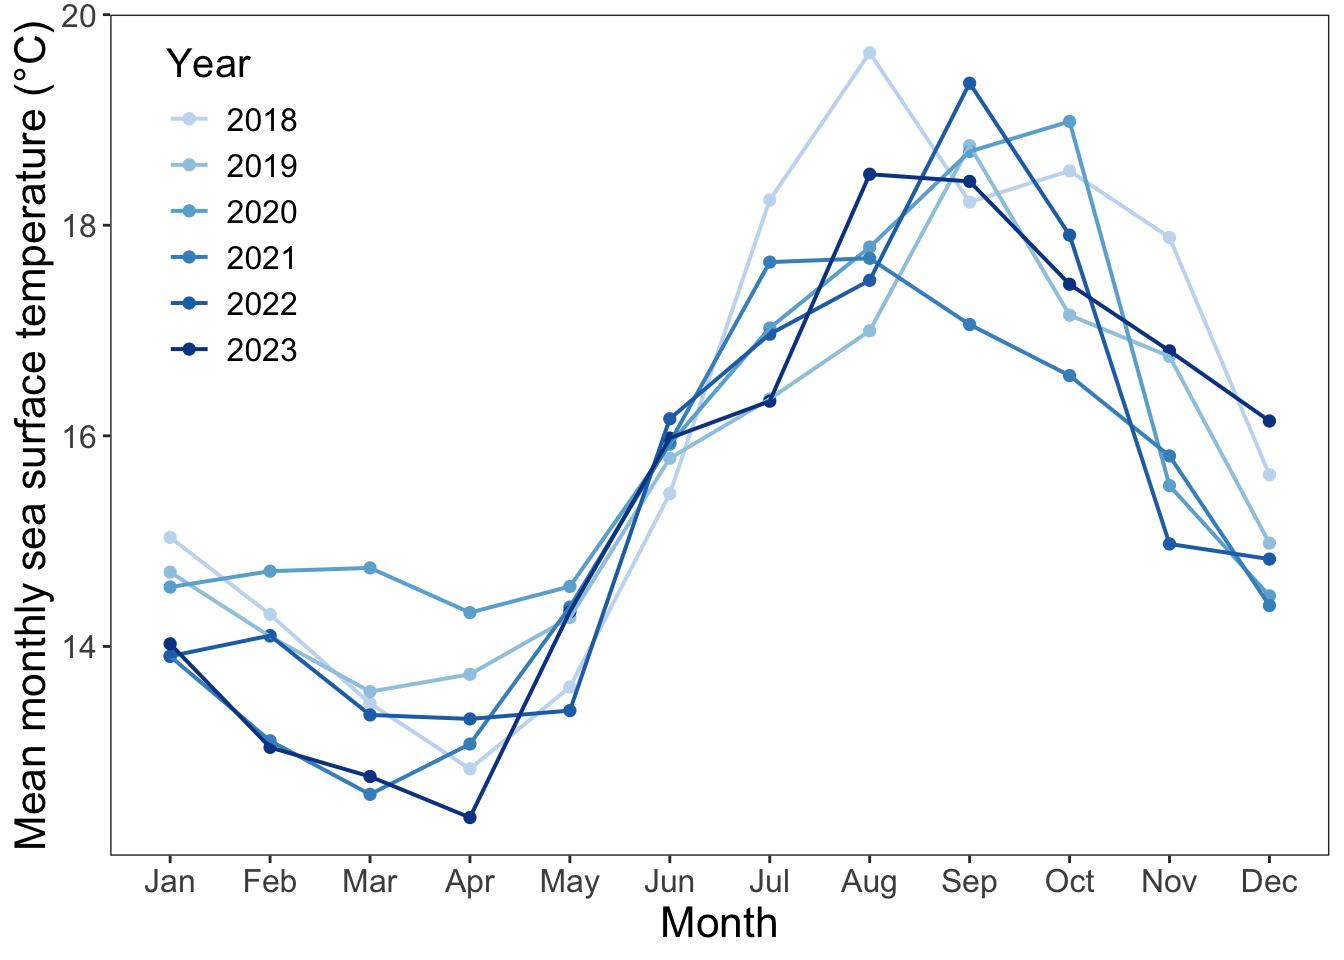
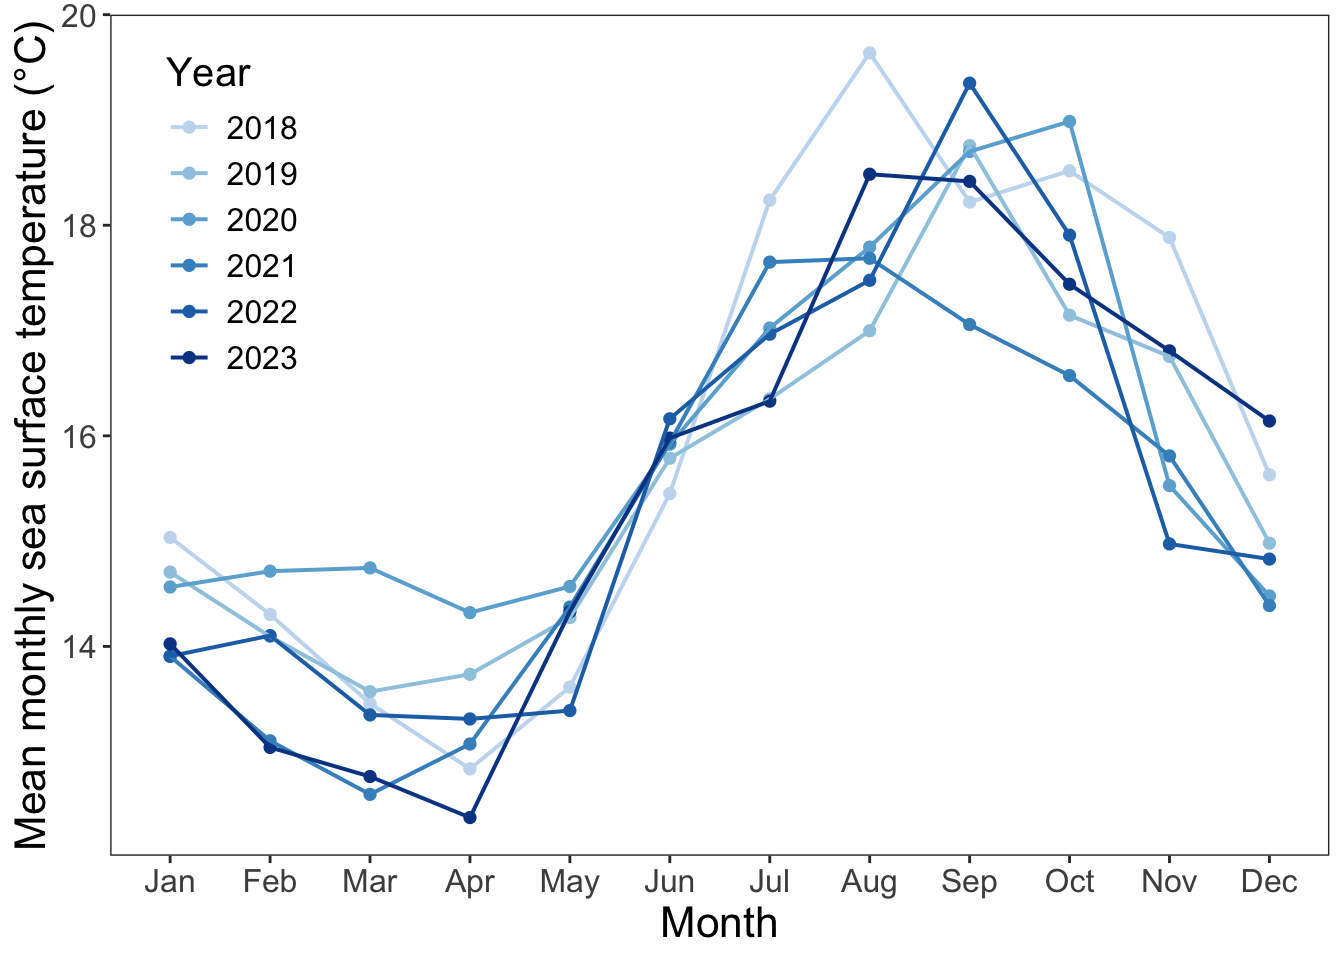
added models

Changed region(s): [[0.125, 0.0312, 0.2188, 0.4062]]

diff --git a/Code/index.html b/Code/index.html
@@ -81,16 +81,25 @@ pre > code.sourceCode > span > a:first-child::before { text-decoration: underlin
     <h2 id="toc-title">Table of contents</h2>
    
   <ul>
-  <li><a href="#problem-1" id="toc-problem-1" class="nav-link active" data-scroll-target="#problem-1">Problem 1</a>
+  <li><a href="#problem-1.-research-writing" id="toc-problem-1.-research-writing" class="nav-link active" data-scroll-target="#problem-1.-research-writing">Problem 1. Research Writing</a>
   <ul class="collapse">
   <li><a href="#a.-transparent-statistical-methods" id="toc-a.-transparent-statistical-methods" class="nav-link" data-scroll-target="#a.-transparent-statistical-methods">a. Transparent Statistical Methods</a></li>
   <li><a href="#b.-more-information-needed" id="toc-b.-more-information-needed" class="nav-link" data-scroll-target="#b.-more-information-needed">b. More Information Needed</a></li>
   <li><a href="#c.-suggestions-for-rewriting" id="toc-c.-suggestions-for-rewriting" class="nav-link" data-scroll-target="#c.-suggestions-for-rewriting">c.&nbsp;Suggestions for Rewriting</a></li>
   </ul></li>
-  <li><a href="#problem-2" id="toc-problem-2" class="nav-link" data-scroll-target="#problem-2">Problem 2</a>
+  <li><a href="#problem-2.-data-visualization" id="toc-problem-2.-data-visualization" class="nav-link" data-scroll-target="#problem-2.-data-visualization">Problem 2. Data Visualization</a>
   <ul class="collapse">
   <li><a href="#a.-cleaning-and-summarizing" id="toc-a.-cleaning-and-summarizing" class="nav-link" data-scroll-target="#a.-cleaning-and-summarizing">a. Cleaning and Summarizing</a></li>
   <li><a href="#b.-visualize-the-data" id="toc-b.-visualize-the-data" class="nav-link" data-scroll-target="#b.-visualize-the-data">b. Visualize the Data</a></li>
+  </ul></li>
+  <li><a href="#problem-3.-data-analysis" id="toc-problem-3.-data-analysis" class="nav-link" data-scroll-target="#problem-3.-data-analysis">Problem 3. Data Analysis</a>
+  <ul class="collapse">
+  <li><a href="#a.-response-variable" id="toc-a.-response-variable" class="nav-link" data-scroll-target="#a.-response-variable">a. Response Variable</a></li>
+  <li><a href="#b.-purpose-of-study" id="toc-b.-purpose-of-study" class="nav-link" data-scroll-target="#b.-purpose-of-study">b. Purpose of Study</a></li>
+  <li><a href="#c.-difference-in-seasons" id="toc-c.-difference-in-seasons" class="nav-link" data-scroll-target="#c.-difference-in-seasons">c.&nbsp;Difference in “seasons”</a></li>
+  <li><a href="#d.-table-of-models" id="toc-d.-table-of-models" class="nav-link" data-scroll-target="#d.-table-of-models">d.&nbsp;Table of Models</a></li>
+  <li><a href="#e.-run-the-models" id="toc-e.-run-the-models" class="nav-link" data-scroll-target="#e.-run-the-models">e. Run the Models</a></li>
+  <li><a href="#f.-check-the-diagnostics" id="toc-f.-check-the-diagnostics" class="nav-link" data-scroll-target="#f.-check-the-diagnostics">f.&nbsp;Check the Diagnostics</a></li>
   </ul></li>
   </ul>
 </nav>
@@ -137,13 +146,18 @@ pre > code.sourceCode > span > a:first-child::before { text-decoration: underlin
 <span id="cb1-3"><a href="#cb1-3" aria-hidden="true" tabindex="-1"></a><span class="fu">library</span>(gt)</span>
 <span id="cb1-4"><a href="#cb1-4" aria-hidden="true" tabindex="-1"></a><span class="fu">library</span>(janitor)</span>
 <span id="cb1-5"><a href="#cb1-5" aria-hidden="true" tabindex="-1"></a><span class="fu">library</span>(lubridate, <span class="at">warn.conflicts =</span> <span class="cn">FALSE</span>)</span>
-<span id="cb1-6"><a href="#cb1-6" aria-hidden="true" tabindex="-1"></a></span>
-<span id="cb1-7"><a href="#cb1-7" aria-hidden="true" tabindex="-1"></a><span class="co"># reading in data</span></span>
-<span id="cb1-8"><a href="#cb1-8" aria-hidden="true" tabindex="-1"></a>sst <span class="ot">&lt;-</span> <span class="fu">read.csv</span>(<span class="st">"~/Git_/ENVS-193DS_spring-2025_final/Data/SST_update2023.csv"</span>)</span></code><button title="Copy to Clipboard" class="code-copy-button"><i class="bi"></i></button></pre></div>
+<span id="cb1-6"><a href="#cb1-6" aria-hidden="true" tabindex="-1"></a><span class="fu">library</span>(scales)</span>
+<span id="cb1-7"><a href="#cb1-7" aria-hidden="true" tabindex="-1"></a><span class="fu">library</span>(ggeffects)</span>
+<span id="cb1-8"><a href="#cb1-8" aria-hidden="true" tabindex="-1"></a><span class="fu">library</span>(MuMIn)</span>
+<span id="cb1-9"><a href="#cb1-9" aria-hidden="true" tabindex="-1"></a><span class="fu">library</span>(DHARMa)</span>
+<span id="cb1-10"><a href="#cb1-10" aria-hidden="true" tabindex="-1"></a></span>
+<span id="cb1-11"><a href="#cb1-11" aria-hidden="true" tabindex="-1"></a><span class="co"># reading in data</span></span>
+<span id="cb1-12"><a href="#cb1-12" aria-hidden="true" tabindex="-1"></a>sst <span class="ot">&lt;-</span> <span class="fu">read.csv</span>(<span class="st">"~/Git_/ENVS-193DS_spring-2025_final/Data/SST_update2023.csv"</span>)</span>
+<span id="cb1-13"><a href="#cb1-13" aria-hidden="true" tabindex="-1"></a>nest_boxes <span class="ot">&lt;-</span> <span class="fu">read.csv</span>(<span class="st">"~/Git_/ENVS-193DS_spring-2025_final/Data/occdist.csv"</span>)</span></code><button title="Copy to Clipboard" class="code-copy-button"><i class="bi"></i></button></pre></div>
 </div>
 </section>
-<section id="problem-1" class="level2">
-<h2 class="anchored" data-anchor-id="problem-1">Problem 1</h2>
+<section id="problem-1.-research-writing" class="level2">
+<h2 class="anchored" data-anchor-id="problem-1.-research-writing">Problem 1. Research Writing</h2>
 <section id="a.-transparent-statistical-methods" class="level3">
 <h3 class="anchored" data-anchor-id="a.-transparent-statistical-methods">a. Transparent Statistical Methods</h3>
 <p>In part one, they used a Pearson’s correlation test, as the data points are continuous and correlation was brought up in the description. In part 2, they used a one-way ANOVA test, as they are comparing more than two means by one factor (nitrogen source).</p>
@@ -159,8 +173,8 @@ pre > code.sourceCode > span > a:first-child::before { text-decoration: underlin
 <p>Part 2: We observed a [small, medium, large] difference (η² = <strong>effect size</strong>) in average nitrogen load (kg/year) between sources (urban land, atmospheric deposition, fertilizer, wastewater treatment, and grasslands)(one-way ANOVA, F(<strong>degrees of freedom between groups, degrees of freedom within groups</strong>) = <strong>F value</strong>, p = 0.02, ⍺ = <strong>significance level</strong>). On average, [source 1] tended to have less average nitrogen load than [source 2] (<strong>mean difference 1</strong> kg/year less, 95% CI: [<strong>lower bound, upper bound</strong>] kg/year) and [source 3] (<strong>mean difference 2</strong> kg/year less, 95% CI: [<strong>lower bound, upper bound</strong>] kg/year).</p>
 </section>
 </section>
-<section id="problem-2" class="level2">
-<h2 class="anchored" data-anchor-id="problem-2">Problem 2</h2>
+<section id="problem-2.-data-visualization" class="level2">
+<h2 class="anchored" data-anchor-id="problem-2.-data-visualization">Problem 2. Data Visualization</h2>
 <section id="a.-cleaning-and-summarizing" class="level3">
 <h3 class="anchored" data-anchor-id="a.-cleaning-and-summarizing">a. Cleaning and Summarizing</h3>
 <div class="cell">
@@ -179,11 +193,11 @@ pre > code.sourceCode > span > a:first-child::before { text-decoration: underlin
 <pre><code># A tibble: 5 × 3
   year  month mean_monthly_sst
   &lt;fct&gt; &lt;ord&gt;            &lt;dbl&gt;
-1 2020  Feb               14.7
-2 2021  Oct               16.6
-3 2022  May               13.4
-4 2019  Jul               16.3
-5 2021  Feb               13.1</code></pre>
+1 2022  Sep               19.3
+2 2022  Jan               13.9
+3 2019  Jan               14.7
+4 2023  May               14.3
+5 2021  Sep               17.1</code></pre>
 </div>
 <div class="sourceCode cell-code" id="cb4"><pre class="sourceCode r code-with-copy"><code class="sourceCode r"><span id="cb4-1"><a href="#cb4-1" aria-hidden="true" tabindex="-1"></a><span class="fu">str</span>(sst_clean) <span class="co"># show data frame structure</span></span></code><button title="Copy to Clipboard" class="code-copy-button"><i class="bi"></i></button></pre></div>
 <div class="cell-output cell-output-stdout">
@@ -208,7 +222,7 @@ pre > code.sourceCode > span > a:first-child::before { text-decoration: underlin
 <span id="cb6-9"><a href="#cb6-9" aria-hidden="true" tabindex="-1"></a>    <span class="at">y =</span> <span class="st">"Mean monthly sea surface temperature (°C)"</span>, <span class="co"># set y axis title</span></span>
 <span id="cb6-10"><a href="#cb6-10" aria-hidden="true" tabindex="-1"></a>    <span class="at">color =</span> <span class="st">"Year"</span> <span class="co"># set legend title</span></span>
 <span id="cb6-11"><a href="#cb6-11" aria-hidden="true" tabindex="-1"></a>  ) <span class="sc">+</span></span>
-<span id="cb6-12"><a href="#cb6-12" aria-hidden="true" tabindex="-1"></a>  <span class="fu">scale_color_manual</span>(<span class="at">values =</span> <span class="fu">c</span>(</span>
+<span id="cb6-12"><a href="#cb6-12" aria-hidden="true" tabindex="-1"></a>  <span class="fu">scale_color_manual</span>(<span class="at">values =</span> <span class="fu">c</span>( <span class="co"># select line colors</span></span>
 <span id="cb6-13"><a href="#cb6-13" aria-hidden="true" tabindex="-1"></a>    <span class="st">"2018"</span> <span class="ot">=</span> <span class="st">"#c6dbef"</span>,</span>
 <span id="cb6-14"><a href="#cb6-14" aria-hidden="true" tabindex="-1"></a>    <span class="st">"2019"</span> <span class="ot">=</span> <span class="st">"#9ecae1"</span>,</span>
 <span id="cb6-15"><a href="#cb6-15" aria-hidden="true" tabindex="-1"></a>    <span class="st">"2020"</span> <span class="ot">=</span> <span class="st">"#6baed6"</span>,</span>
@@ -216,16 +230,16 @@ pre > code.sourceCode > span > a:first-child::before { text-decoration: underlin
 <span id="cb6-17"><a href="#cb6-17" aria-hidden="true" tabindex="-1"></a>    <span class="st">"2022"</span> <span class="ot">=</span> <span class="st">"#2171b5"</span>,</span>
 <span id="cb6-18"><a href="#cb6-18" aria-hidden="true" tabindex="-1"></a>    <span class="st">"2023"</span> <span class="ot">=</span> <span class="st">"#084594"</span></span>
 <span id="cb6-19"><a href="#cb6-19" aria-hidden="true" tabindex="-1"></a>  )) <span class="sc">+</span></span>
-<span id="cb6-20"><a href="#cb6-20" aria-hidden="true" tabindex="-1"></a>  <span class="fu">theme_bw</span>() <span class="sc">+</span></span>
-<span id="cb6-21"><a href="#cb6-21" aria-hidden="true" tabindex="-1"></a>  <span class="fu">theme</span>(</span>
-<span id="cb6-22"><a href="#cb6-22" aria-hidden="true" tabindex="-1"></a>    <span class="at">axis.title.x =</span> <span class="fu">element_text</span>(<span class="at">size =</span> <span class="dv">16</span>),</span>
+<span id="cb6-20"><a href="#cb6-20" aria-hidden="true" tabindex="-1"></a>  <span class="fu">theme_bw</span>() <span class="sc">+</span> <span class="co"># select theme with border</span></span>
+<span id="cb6-21"><a href="#cb6-21" aria-hidden="true" tabindex="-1"></a>  <span class="fu">theme</span>( <span class="co"># set font sizes, hide grids, and move legend</span></span>
+<span id="cb6-22"><a href="#cb6-22" aria-hidden="true" tabindex="-1"></a>    <span class="at">axis.title.x =</span> <span class="fu">element_text</span>(<span class="at">size =</span> <span class="dv">16</span>), </span>
 <span id="cb6-23"><a href="#cb6-23" aria-hidden="true" tabindex="-1"></a>    <span class="at">axis.title.y =</span> <span class="fu">element_text</span>(<span class="at">size =</span> <span class="dv">16</span>),</span>
 <span id="cb6-24"><a href="#cb6-24" aria-hidden="true" tabindex="-1"></a>    <span class="at">axis.text.x =</span> <span class="fu">element_text</span>(<span class="at">size =</span> <span class="dv">12</span>),</span>
 <span id="cb6-25"><a href="#cb6-25" aria-hidden="true" tabindex="-1"></a>    <span class="at">axis.text.y =</span> <span class="fu">element_text</span>(<span class="at">size =</span> <span class="dv">12</span>),</span>
 <span id="cb6-26"><a href="#cb6-26" aria-hidden="true" tabindex="-1"></a>    <span class="at">panel.background =</span> <span class="fu">element_blank</span>(),</span>
 <span id="cb6-27"><a href="#cb6-27" aria-hidden="true" tabindex="-1"></a>    <span class="at">panel.grid.minor =</span> <span class="fu">element_blank</span>(),</span>
 <span id="cb6-28"><a href="#cb6-28" aria-hidden="true" tabindex="-1"></a>    <span class="at">panel.grid.major =</span> <span class="fu">element_blank</span>(),</span>
-<span id="cb6-29"><a href="#cb6-29" aria-hidden="true" tabindex="-1"></a>    <span class="at">legend.position =</span> <span class="fu">c</span>(<span class="fl">0.1</span>,<span class="fl">0.77</span>),</span>
+<span id="cb6-29"><a href="#cb6-29" aria-hidden="true" tabindex="-1"></a>    <span class="at">legend.position =</span> <span class="fu">c</span>(<span class="fl">0.1</span>,<span class="fl">0.76</span>),</span>
 <span id="cb6-30"><a href="#cb6-30" aria-hidden="true" tabindex="-1"></a>    <span class="at">legend.title =</span> <span class="fu">element_text</span>(<span class="at">size =</span> <span class="dv">15</span>),</span>
 <span id="cb6-31"><a href="#cb6-31" aria-hidden="true" tabindex="-1"></a>    <span class="at">legend.text =</span> <span class="fu">element_text</span>(<span class="at">size =</span> <span class="dv">12</span>)</span>
 <span id="cb6-32"><a href="#cb6-32" aria-hidden="true" tabindex="-1"></a>  )</span></code><button title="Copy to Clipboard" class="code-copy-button"><i class="bi"></i></button></pre></div>
@@ -233,6 +247,96 @@ pre > code.sourceCode > span > a:first-child::before { text-decoration: underlin
 <div>
 <figure class="figure">
 <p><img src="index_files/figure-html/unnamed-chunk-3-1.png" class="img-fluid figure-img" width="672"></p>
+</figure>
+</div>
+</div>
+</div>
+</section>
+</section>
+<section id="problem-3.-data-analysis" class="level2">
+<h2 class="anchored" data-anchor-id="problem-3.-data-analysis">Problem 3. Data Analysis</h2>
+<section id="a.-response-variable" class="level3">
+<h3 class="anchored" data-anchor-id="a.-response-variable">a. Response Variable</h3>
+<p>In this data set, 1s and 0s represent the presence (or absence) of each bird species (swift parrot, common starline, tree martin, or empty). A 1 in a column means “yes” for that observation (for example, a 1 in sp means there was a swift parrot found and a 1 in e means the box was empty) while a 0 in a column means “no” for that observation (for example, a 0 in the cs column means either a species other than the common starling was present, or it was empty.</p>
+</section>
+<section id="b.-purpose-of-study" class="level3">
+<h3 class="anchored" data-anchor-id="b.-purpose-of-study">b. Purpose of Study</h3>
+<p>Swift Parrots are a critically endangered species with preferences for specific dimensions for their nests, which are provided by nest boxes that are being taken up by other species. Tree Martins are a native species that take up these nest boxes (but overall are a subordinate competitor) and Common Starlings are an introduced species that compete for nest boxes with Swift Parrots, with anecdotal evidence suggesting they can compete by destroying eggs of the Swift Parrot.</p>
+</section>
+<section id="c.-difference-in-seasons" class="level3">
+<h3 class="anchored" data-anchor-id="c.-difference-in-seasons">c.&nbsp;Difference in “seasons”</h3>
+<p>The first “season” is 2016/2017, and the second “season” is 2019/2020. Since the boxes were placed in 2016, they were brand new to the area during the first season, and for the second season the surrounding wildlife had time to adapt and get used to their presence.</p>
+</section>
+<section id="d.-table-of-models" class="level3">
+<h3 class="anchored" data-anchor-id="d.-table-of-models">d.&nbsp;Table of Models</h3>
+<table class="caption-top table">
+<thead>
+<tr class="header">
+<th style="text-align: center;">Model Number</th>
+<th style="text-align: center;">Season</th>
+<th style="text-align: center;">Distance to Forest Edge</th>
+<th style="text-align: center;">Model Description</th>
+</tr>
+</thead>
+<tbody>
+<tr class="odd">
+<td style="text-align: center;">0</td>
+<td style="text-align: center;"></td>
+<td style="text-align: center;"></td>
+<td style="text-align: center;">no predictors (null model)</td>
+</tr>
+<tr class="even">
+<td style="text-align: center;">1</td>
+<td style="text-align: center;">X</td>
+<td style="text-align: center;">X</td>
+<td style="text-align: center;">all predictors (saturated model)</td>
+</tr>
+<tr class="odd">
+<td style="text-align: center;">2</td>
+<td style="text-align: center;">X</td>
+<td style="text-align: center;"></td>
+<td style="text-align: center;">Season predictor only</td>
+</tr>
+<tr class="even">
+<td style="text-align: center;">3</td>
+<td style="text-align: center;"></td>
+<td style="text-align: center;">X</td>
+<td style="text-align: center;">Distance to forest edge predictor only</td>
+</tr>
+</tbody>
+</table>
+</section>
+<section id="e.-run-the-models" class="level3">
+<h3 class="anchored" data-anchor-id="e.-run-the-models">e. Run the Models</h3>
+</section>
+<section id="f.-check-the-diagnostics" class="level3">
+<h3 class="anchored" data-anchor-id="f.-check-the-diagnostics">f.&nbsp;Check the Diagnostics</h3>
+<div class="cell">
+<div class="cell-output-display">
+<div>
+<figure class="figure">
+<p><img src="index_files/figure-html/unnamed-chunk-6-1.png" class="img-fluid figure-img" width="672"></p>
+</figure>
+</div>
+</div>
+<div class="cell-output-display">
+<div>
+<figure class="figure">
+<p><img src="index_files/figure-html/unnamed-chunk-6-2.png" class="img-fluid figure-img" width="672"></p>
+</figure>
+</div>
+</div>
+<div class="cell-output-display">
+<div>
+<figure class="figure">
+<p><img src="index_files/figure-html/unnamed-chunk-6-3.png" class="img-fluid figure-img" width="672"></p>
+</figure>
+</div>
+</div>
+<div class="cell-output-display">
+<div>
+<figure class="figure">
+<p><img src="index_files/figure-html/unnamed-chunk-6-4.png" class="img-fluid figure-img" width="672"></p>
 </figure>
 </div>
 </div>
